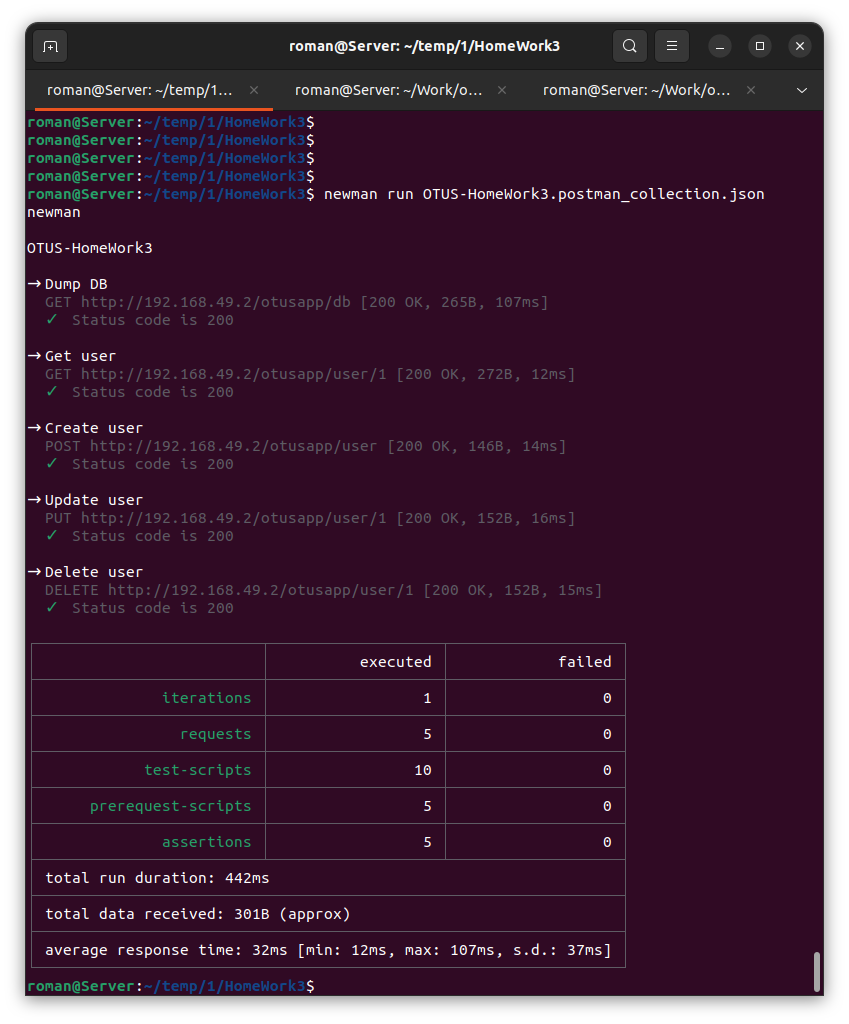
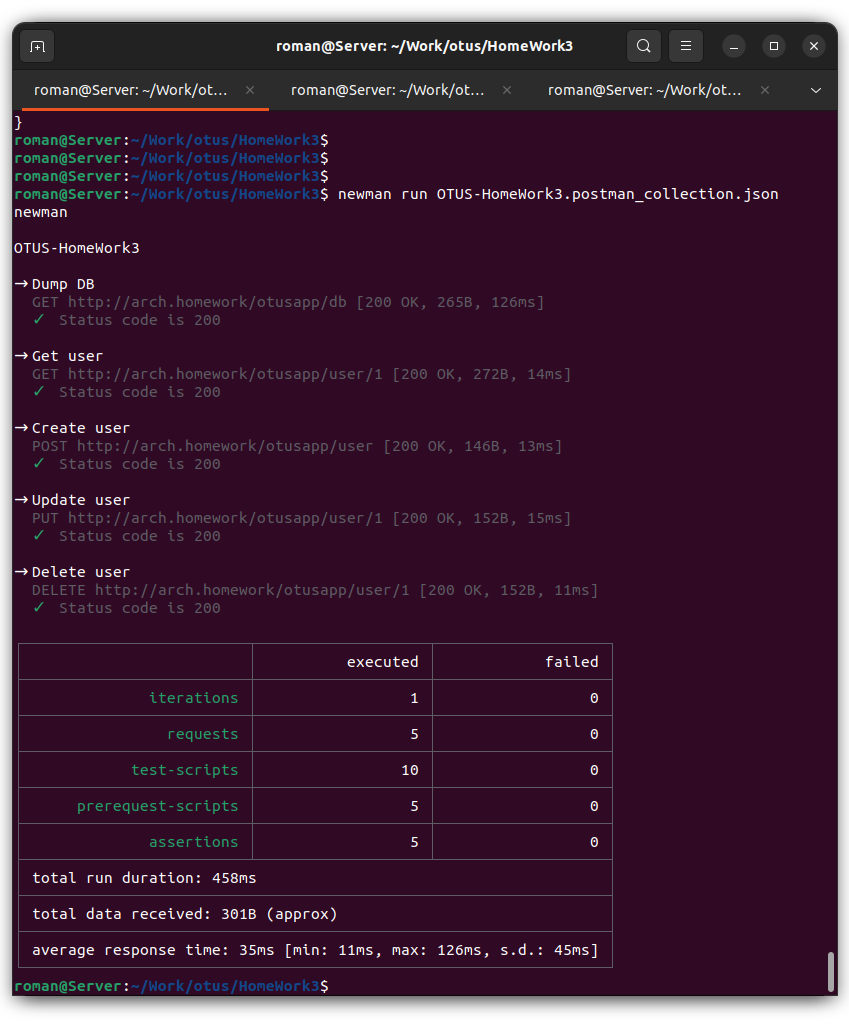
Fixed host

diff --git a/README.md b/README.md
@@ -10,14 +10,13 @@ helm install myapp ./otus-chart
 ```
 Tesing:
 ```
-kubectl get ing
-curl -H 'Host: arch.homework' http://<IP_ADDRESS>/otusapp
-curl -H 'Host: arch.homework' http://<IP_ADDRESS>/otusapp/health
-curl -H 'Host: arch.homework' http://<IP_ADDRESS>/otusapp/config
-curl -H 'Host: arch.homework' http://<IP_ADDRESS>/otusapp/db
-curl -H 'Host: arch.homework' http://<IP_ADDRESS>/otusapp/user/1
-curl -X 'POST' -H 'Host: arch.homework' -H 'Content-Type: application/json' \
-'http://<IP_ADDRESS>/otusapp/user' \
+curl http://arch.homework/otusapp
+curl http://arch.homework/otusapp/health
+curl http://arch.homework/otusapp/config
+curl http://arch.homework/otusapp/db
+curl http://arch.homework/otusapp/user/1
+curl -X 'POST' -H 'Content-Type: application/json' \
+'http://arch.homework/otusapp/user' \
 --data-raw '{
     "userName": "TestUser",
     "firstName": "FirstName",
@@ -25,17 +24,17 @@ curl -X 'POST' -H 'Host: arch.homework' -H 'Content-Type: application/json' \
     "email": "user2@domain.root",
     "phone": "+11231231212"
 }'
-curl -H 'Host: arch.homework' http://<IP_ADDRESS>/otusapp/user/2
-curl -X 'PUT' -H 'Host: arch.homework' -H 'Content-Type: application/json' \
-'http://<IP_ADDRESS>/otusapp/user/2' \
+curl http://arch.homework/otusapp/user/2
+curl -X 'PUT' -H 'Content-Type: application/json' \
+'http://arch.homework/otusapp/user/2' \
 --data-raw '{
     "firstName": "FirstName1",
     "lastName": "LastName1",
     "email": "user21@domain.root",
     "phone": "+11111111111"
 }'
-curl -X 'DELETE' -H 'Host: arch.homework' http://<IP_ADDRESS>/otusapp/user/2
-curl -H 'Host: arch.homework' http://<IP_ADDRESS>/otusapp/db
+curl -X 'DELETE' http://arch.homework/otusapp/user/2
+curl http://arch.homework/otusapp/db
 ```
 Postman collection url:
   https://web.postman.co/workspace/My-Workspace~37b48d30-c657-4222-8584-21093bf5181b/request/24396906-6b377e42-5da4-41af-a98d-e1ee66141cbf
